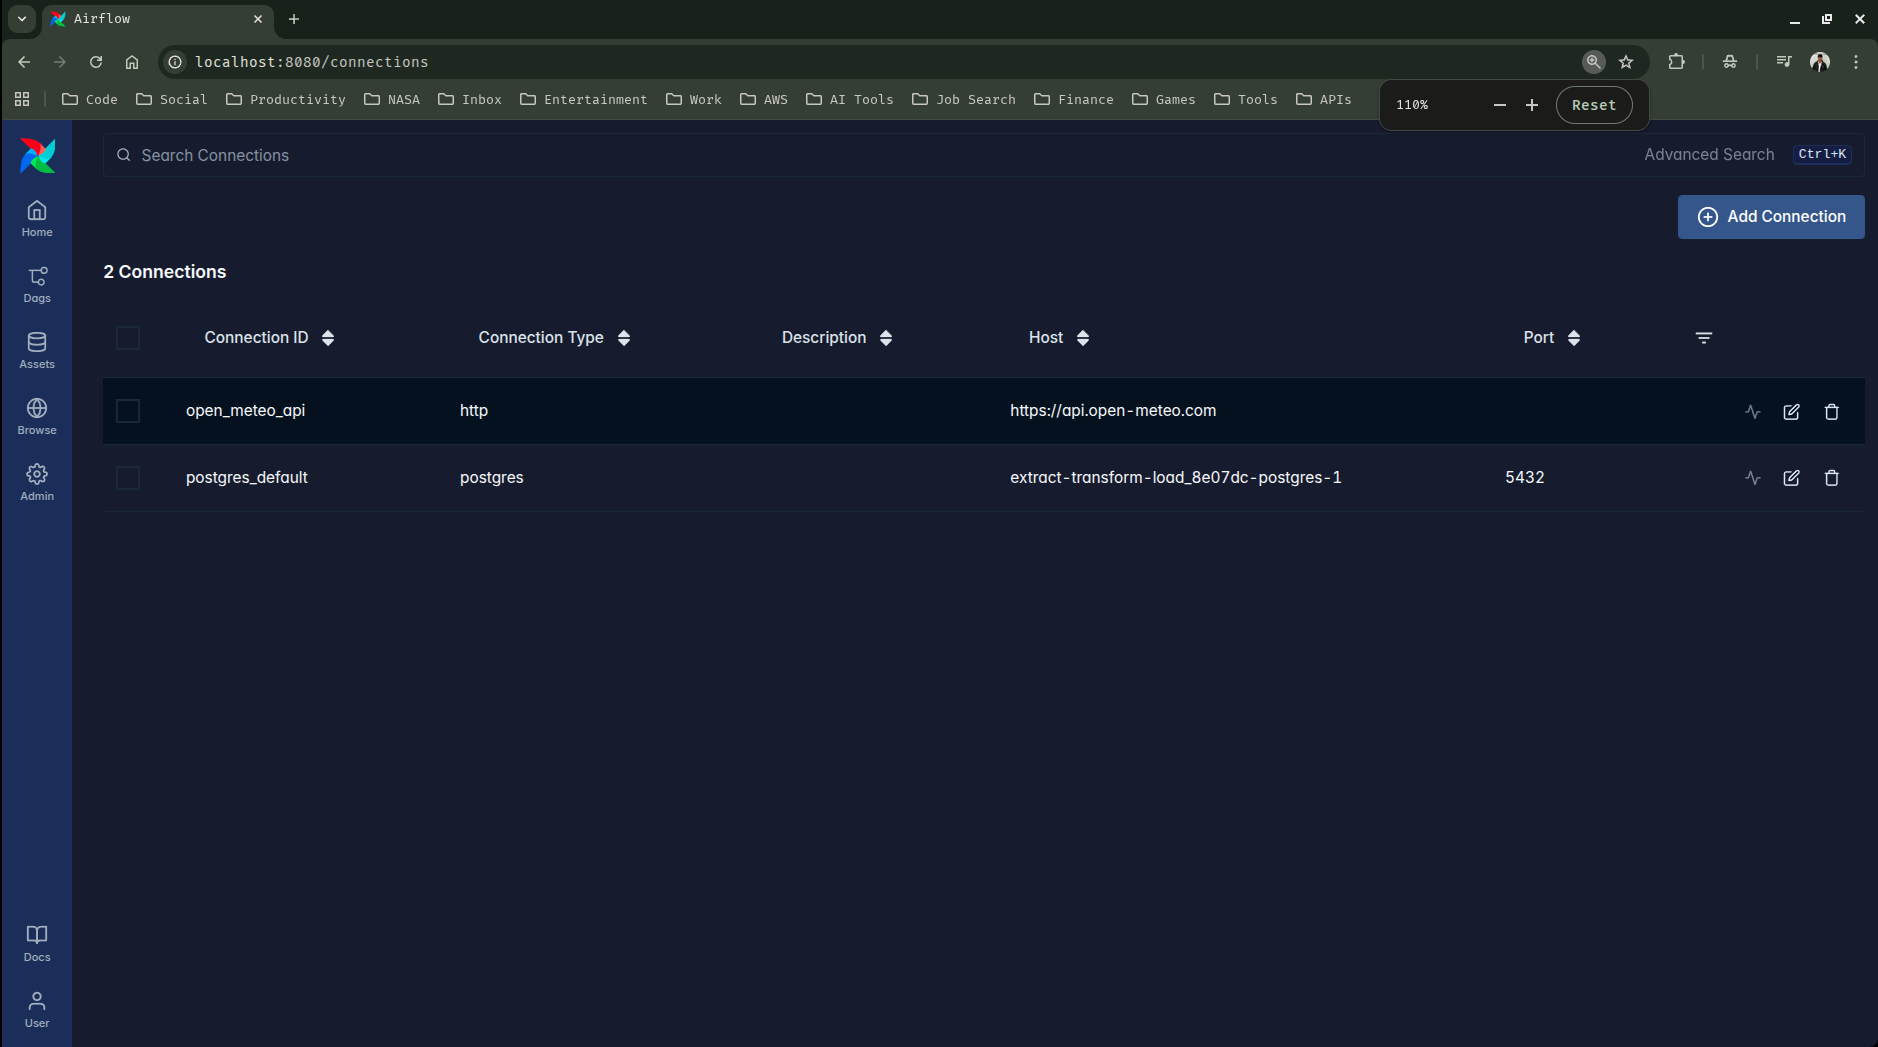
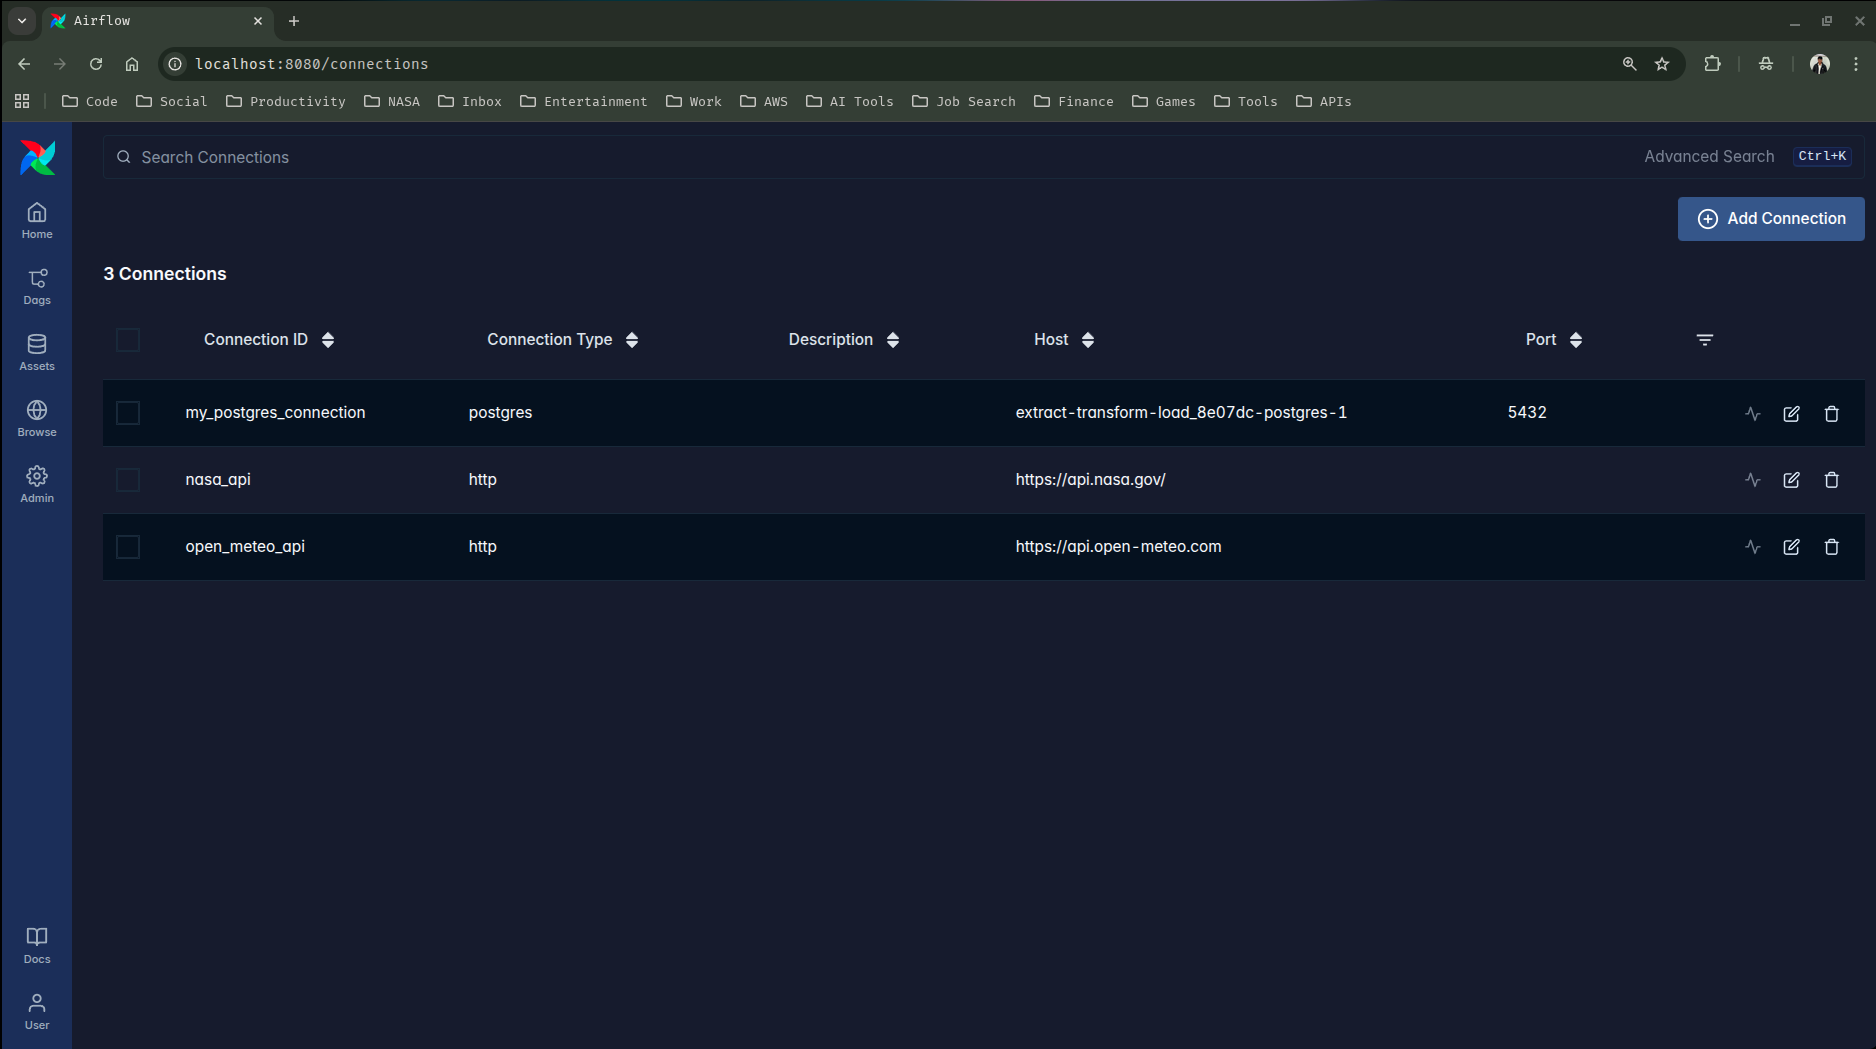
Updated weather postgres_deafault conn to my_postgres_connection

diff --git a/dags/etl-weather-pipeline.py b/dags/etl-weather-pipeline.py
@@ -7,7 +7,7 @@ from airflow.sdk import task
 LATITUDE = "51.5074"
 LONGITUDE = "-0.1278"
 
-POSTGRES_CONN_ID = "postgres_default"
+POSTGRES_CONN_ID = "my_postgres_connection"
 API_CONN_ID = "open_meteo_api"
 
 default_args = {"owner": "airflow", "retries": 3}

diff --git a/documentations/weather.md b/documentations/weather.md
@@ -152,11 +152,10 @@ from airflow.providers.http.hooks.http import HttpHook
 from airflow.providers.postgres.hooks.postgres import PostgresHook
 from airflow.sdk import task
 
-## lat and lon of london
 LATITUDE = "51.5074"
 LONGITUDE = "-0.1278"
 
-POSTGRES_CONN_ID = "postgres_default"
+POSTGRES_CONN_ID = "my_postgres_connection"
 API_CONN_ID = "open_meteo_api"
 
 default_args = {"owner": "airflow", "retries": 3}
@@ -164,21 +163,16 @@ default_args = {"owner": "airflow", "retries": 3}
 with DAG(
     dag_id="weather_etl_pipeline",
     default_args=default_args,
-    start_date=pendulum.datetime(2026, 1, 1, tz="UTC"),
+    start_date=pendulum.datetime(2025, 1, 1, tz="UTC"),
     schedule="@daily",
     catchup=False,
 ) as dags:
 
     @task
     def extract_data():
-        """Extarct weather data from Open-Meteo API using Airflow Connection"""
-        # Use the http hook to get connection details from airflow connection
         http_hook = HttpHook(http_conn_id=API_CONN_ID, method="GET")
-        # build the end point
-        # https://api.open-meteo.com/v1/forecast?latitude=51.5074&longitude=-0.1278&current_weather=true
-        endpoint = f"/v1/forecast?latitude={LATITUDE}&longitude={LONGITUDE}&current_weather=true"
-        # Make the request via the http hook
-        response = http_hook.run(endpoint)
+        params = {"latitude": LATITUDE, "longitude": LONGITUDE, "current_weather": True}
+        response = http_hook.run(endpoint="/v1/forecast", data=params)
 
         if response.status_code == 200:
             return response.json()
@@ -187,8 +181,7 @@ with DAG(
 
     @task
     def transform_data(weather_data):
-        """Transform the extracted weather data"""
-        current_weather = weather_data["currrent_weatehr"]
+        current_weather = weather_data["current_weather"]
         transformed_data = {
             "latitude": LATITUDE,
             "longitude": LONGITUDE,
@@ -201,13 +194,9 @@ with DAG(
 
     @task
     def load_data(transformed_data):
-        """Load transformed data into PostgreSQL"""
         pg_hook = PostgresHook(postgres_conn_id=POSTGRES_CONN_ID)
-        conn = pg_hook.get_conn()
-        cursor = conn.cursor()
-
-        # Create table if it doesnt exists
-        cursor.execute("""
+        # create table if not exists
+        pg_hook.run("""
         CREATE TABLE IF NOT EXISTS weather_data (
             latitude FLOAT,
             longitude FLOAT,
@@ -218,20 +207,14 @@ with DAG(
             timestamp TIMESTAMP DEFAULT CURRENT_TIMESTAMP
         );
         """)
-
-        # Insert the transformed data into the the postgresql table
-        cursor.execute(
+        # insert data
+        pg_hook.run(
             """
-        INSERT INTO weather_data (
-            latitude,
-            longitude,
-            temperature,
-            wind_speed,
-            wind_direction,
-            weather_code
-        ) VALUES (%s, %s, %s, %s, %s, %s)
-        """,
-            (
+            INSERT INTO weather_data (
+                latitude, longitude, temperature, wind_speed, wind_direction, weather_code
+            ) VALUES (%s, %s, %s, %s, %s, %s)
+            """,
+            parameters=(
                 transformed_data["latitude"],
                 transformed_data["longitude"],
                 transformed_data["temperature"],
@@ -241,13 +224,9 @@ with DAG(
             ),
         )
 
-        conn.commit()
-        cursor.close()
-
-    ## DAG Workflow - ETL Pipeline
     weather_data = extract_data()
-    transformed_data = transform_data(weather_data=weather_data)
-    load_data(transformed_data=transformed_data)
+    transformed_data = transform_data(weather_data)
+    load_data(transformed_data)
 ```
 
 2.2 Run your astro project to view your above dag.
@@ -295,7 +274,7 @@ http://localhost:8080/dags
 Now lets set up the below required connections from the airflow ui, needed to run our ETL pipeline:
 
 ```python
-POSTGRES_CONN_ID = "postgres_default"
+POSTGRES_CONN_ID = "my_postgres_connection"
 API_CONN_ID = "open_meteo_api"
 ```
 
@@ -307,9 +286,9 @@ API_CONN_ID = "open_meteo_api"
 
 3.2 Add the two required connections:
 
-> Add the postgres_default connection
+> Add the 'my_postgres_connection' connection
 
-- Connection ID -> postgres_default
+- Connection ID -> my_postgres_connection
 - Connection Type -> Postgres
 - Host -> extract-transform-load_8e07dc-postgres-1 (Name of the container running)
 - Login -> postgres
@@ -317,7 +296,7 @@ API_CONN_ID = "open_meteo_api"
 - Port -> 5432 
 - Database -> postgres
 
-<img src="../screenshots/postgres-default-conn.png"
+<img src="../screenshots/postgres-connection.png"
      alt="Image Caption"
      style="border:1px solid white; padding:1px; background:#fff; width: 3000px;" />
 
